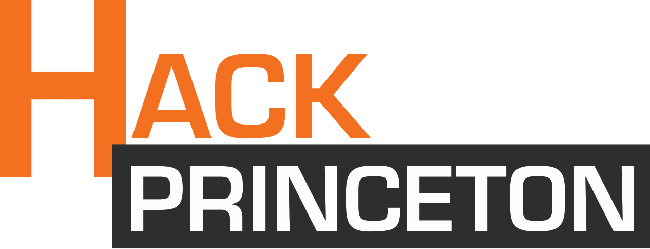
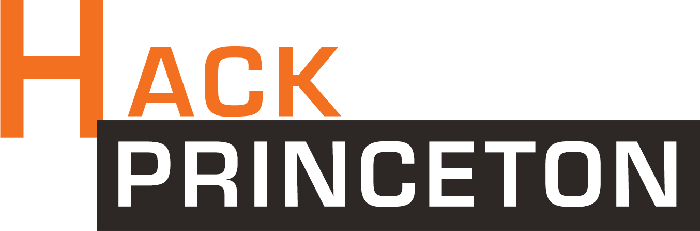
angela's work is so sexy. i love svgs with a passion

diff --git a/index.htm b/index.htm
@@ -7,15 +7,14 @@
   <link rel="stylesheet" href="css/style.css"/>
   <link rel="shortcut icon" href="img/favicon.ico" type="image/x-icon">
   <link rel="icon" href="img/favicon.ico" type="image/x-icon">
+  <link href='http://fonts.googleapis.com/css?family=Titillium+Web:700' rel='stylesheet' type='text/css'>
 </head>
 <body>
 
 <div class="fold" style="background-image: url(img/thefold-copy.jpg);">
     <div class="fold-wrapper">
       <div class="fold-content">
-        <div class="fold-image">
-          <img src="img/hackprinceton.png">
-        </div>
+        <object data="img/hackprinceton.svg" type="image/svg+xml"></object>
         <div class="fold-image">
           <img src="img/logos/sponsoredbyvenmo.png">
         </div>
